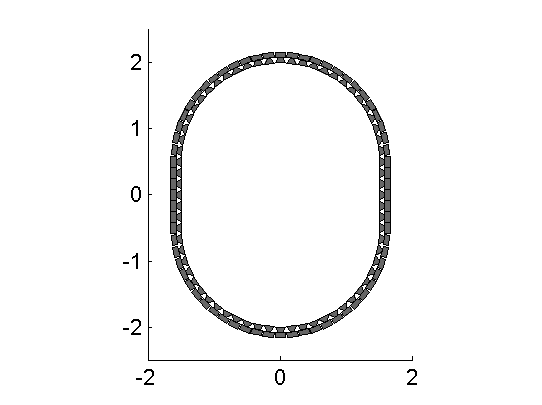
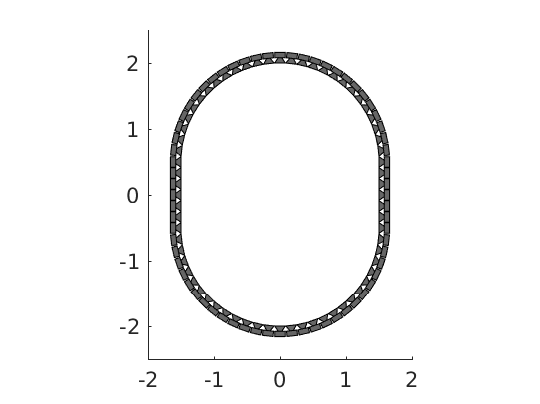
DOC: new section on system impulse responses and switch to opengl

diff --git a/doc/img/generate_plots.m b/doc/img/generate_plots.m
@@ -21,6 +21,7 @@ figure;
 figsize(540,404,'px');
 draw_loudspeakers(x0,conf);
 axis([-2 2 -2 2]);
+xticks(-2:1:2); yticks(-2:1:2);
 print_png('secondary_sources_circle.png');
 
 % === box shaped ===
@@ -31,6 +32,7 @@ figure;
 figsize(540,404,'px');
 draw_loudspeakers(x0,conf);
 axis([-2 2 -2 2]);
+xticks(-2:1:2); yticks(-2:1:2);
 print_png('secondary_sources_box.png');
 
 % === box shaped with smoothed edges ===
@@ -42,6 +44,7 @@ figure;
 figsize(540,404,'px');
 draw_loudspeakers(x0,conf);
 axis([-2 2 -2 2]);
+xticks(-2:1:2); yticks(-2:1:2);
 print_png('secondary_sources_rounded-box.png');
 
 % === spherical array ===
@@ -52,6 +55,7 @@ figure;
 figsize(540,404,'px');
 draw_loudspeakers(x0,conf);
 axis([-2 2 -2 2]);
+xticks(-2:1:2); yticks(-2:1:2);
 print_png('secondary_sources_sphere.png');
 
 % === arbitrary shaped arrays ===
@@ -93,12 +97,14 @@ figure;
 figsize(540,404,'px');
 draw_loudspeakers(x0,conf);
 axis([-2 2 -2.5 2.5]);
+xticks(-2:1:2); yticks(-2:1:2);
 print_png('secondary_sources_arbitrary.png');
 conf.plot.realloudspeakers = true;
 figure;
 figsize(540,404,'px');
 draw_loudspeakers(x0,conf);
 axis([-2 2 -2.5 2.5]);
+xticks(-2:1:2); yticks(-2:1:2);
 print_png('secondary_sources_arbitrary_realloudspeakers.png');
 
 %% ===== Monochromatic sound fields ======================================
@@ -110,10 +116,16 @@ conf.secondary_sources.number = 225;
 conf.secondary_sources.geometry = 'sphere';
 % [P,x,y,z,x0,win] = sound_field_mono_wfs_25d(X,Y,Z,xs,src,fconf);
 sound_field_mono_wfs([-2 2],[-2 2],0,[0 -1 0],'pw',800,conf);
+axis([-2 2 -2 2]);
+xticks(-2:1:2); yticks(-2:1:2);
 print_png('sound_field_wfs_3d_xy.png');
 sound_field_mono_wfs([-2 2],0,[-2 2],[0 -1 0],'pw',800,conf);
+axis([-2 2 -2 2]);
+xticks(-2:1:2); yticks(-2:1:2);
 print_png('sound_field_wfs_3d_xz.png');
 sound_field_mono_wfs(0,[-2 2],[-2 2],[0 -1 0],'pw',800,conf);
+axis([-2 2 -2 2]);
+xticks(-2:1:2); yticks(-2:1:2);
 print_png('sound_field_wfs_3d_yz.png');
 conf.resolution = 100;
 sound_field_mono_wfs([-2 2],[-2 2],[-2 2],[0 -1 0],'pw',800,conf);
@@ -127,6 +139,8 @@ conf.plot.useplot = true;
 conf.plot.normalisation = 'center';
 % [P,x,y,z,x0] = sound_field_mono_wfs(X,Y,Z,xs,src,f,conf);
 [P,~,~,~,x0] = sound_field_mono_wfs([-2 2],[-2 2],0,[0 2.5 0],'ps',800,conf);
+axis([-2 2 -2 2]);
+xticks(-2:1:2); yticks(-2:1:2);
 print_png('sound_field_wfs_25d.png');
 % plotting WFS with all secondary sources
 x0_all = secondary_source_positions(conf);
@@ -135,12 +149,16 @@ x0_all(:,7) = zeros(1,size(x0_all,1));
 x0_all(idx,7) = x0(:,7);
 conf.plot.realloudspeakers = true;
 plot_sound_field(P,[-2 2],[-2 2],0,x0_all,conf);
+axis([-2 2 -2 2]);
+xticks(-2:1:2); yticks(-2:1:2);
 print_png('sound_field_wfs_25d_with_all_sources.png');
 % simulating 2.5D NFCHOA with circular array and a plane wave
 conf = SFS_config;
 conf.dimension = '2.5D';
 % sound_field_mono_nfchoa(X,Y,Z,xs,src,f,conf);
 sound_field_mono_nfchoa([-2 2],[-2 2],0,[0 -1 0],'pw',800,conf);
+axis([-2 2 -2 2]);
+xticks(-2:1:2); yticks(-2:1:2);
 print_png('sound_field_nfchoa_25d.png');
 
 % === 2D local WFS with box shaped array and circular virtual array ===
@@ -172,9 +190,13 @@ conf.dimension = '2.5D';
 conf.plot.useplot = true;
 % sound_field_imp_nfchoa(X,Y,Z,xs,src,t,conf)
 [p,x,y,z,x0] = sound_field_imp_nfchoa([-2 2],[-2 2],0,[0 2 0],'ps',200,conf);
+axis([-2 2 -2 2]);
+xticks(-2:1:2); yticks(-2:1:2);
 print_png('sound_field_imp_nfchoa_25d.png');
 conf.plot.usedb = true;
 plot_sound_field(p,[-2 2],[-2 2],0,x0,conf);
+axis([-2 2 -2 2]);
+xticks(-2:1:2); yticks(-2:1:2);
 print_png('sound_field_imp_nfchoa_25d_dB.png');
 conf.plot.useplot = false;
 conf.t0 = 'source';
@@ -187,10 +209,12 @@ t_40cm = round(0.4/conf.c*conf.fs); % in samples
     sound_field_imp_wfs([-2 2],[-2 2],0,[0 -1 0 0 1 0],'fs',20,conf);
 plot_sound_field(p_ps+p_pw+p_fs,[-2 2],[-2 2],0,[x0_ps; x0_pw; x0_fs],conf)
 hold;
-scatter(0,0,'kx');   % origin of plane wave
-scatter(1.9,0,'ko'); % point source
-scatter(0,-1,'ko');  % focused source
+scatter(0,0,'k','x');   % origin of plane wave
+scatter(1.9,0,'k','o'); % point source
+scatter(0,-1,'k','o');  % focused source
 hold off;
+axis([-2 2 -2 2]);
+xticks(-2:1:2); yticks(-2:1:2);
 print_png('sound_field_imp_multiple_sources_dB.png');
 
 %% ===== custom grids ====================================================
@@ -210,10 +234,31 @@ conf.dimension = '2.5D';
 conf.secondary_sources.number = 64;
 conf.secondary_sources.geometry = 'circle';
 sound_field_imp_nfchoa(X,Y,0,[0 2 0],'ps',200,conf);
+axis([-2 2 -2 2]);
+xticks(-2:1:2); yticks(-2:1:2);
 print_png('sound_field_imp_nfchoa_25d_dB_custom_grid.png');
 
 
-%% ===== impulse response of the system ==================================
+%% ===== impulse response of a spatial audio system ======================
+conf = SFS_config;
+conf.t0 = 'source';
+X = [0 0 0];
+phi = 0;
+xs = [2.5 0 0];
+src = 'ps';
+hrtf = dummy_irs(conf);
+[ir,~,delay] = ir_wfs(X,phi,xs,src,hrtf,conf);
+figure;
+figsize(540,404,'px');
+plot(ir(1:1000,1),'-g');
+hold on;
+offset = round(delay*conf.fs);
+plot(ir(1+offset:1000+offset,1),'-b');
+hold off;
+print_png('impulse_response_wfs_25d.png');
+
+
+%% ===== frequency response of a spatial audio system ====================
 conf = SFS_config;
 conf.ir.usehcomp = 0;
 conf.wfs.usehpre = 0;
@@ -232,7 +277,7 @@ set(gca,'XTick',[10 100 250 1000 5000 20000]);
 legend('w/o pre-filter','w pre-filter');
 xlabel('frequency / Hz');
 ylabel('magnitude / dB');
-print_png('impulse_response_wfs_25d.png');
+print_png('frequency_response_wfs_25d.png');
 % alternative variant
 conf = SFS_config;
 [a,f] = freq_response_wfs([0 0 0],[0 2.5 0],'ps',conf);
@@ -244,5 +289,5 @@ set(gca,'XTick',[10 100 250 1000 5000 20000]);
 legend('w pre-filter');
 xlabel('frequency / Hz');
 ylabel('magnitude / dB');
-print_png('impulse_response_wfs_25d_mono.png');
+print_png('frequency_response_wfs_25d_mono.png');
 

diff --git a/SFS_plotting/print_png.m b/SFS_plotting/print_png.m
@@ -49,5 +49,7 @@ narginchk(nargmin,nargmax);
 %% ===== Main ============================================================
 % Font type
 set_font_type('Arial');
-print(outfile,'-dpng','-r150');
+pause(0.2);
+print('-r150','-opengl','-dpng',outfile);
+pause(0.2);
 close;

diff --git a/doc/binaural-simulations.rst b/doc/binaural-simulations.rst
@@ -137,6 +137,79 @@ reflections. Note, that the head orientation is chosen to be ``0``
 instead of ``pi/2`` as in the |HRTF| examples due to a difference in the
 orientation of the coordinate system of the |BRIR| measurement.
 
+Impulse response of your spatial audio system
+---------------------------------------------
+
+Binaural simulations are also an interesting approach to investigate the
+behavior of a given spatial audio system at different listener positions. Here, we
+are mainly interested in the influence of the system and not the |HRTF|\ s so we
+simply use a Dirac impulse as |HRTF| as provided by ``dummy_irs()``.
+
+.. sourcecode:: matlab
+
+    conf = SFS_config;
+    conf.t0 = 'source';
+    X = [0 0 0];
+    phi = 0;
+    xs = [2.5 0 0];
+    src = 'ps';
+    hrtf = dummy_irs(conf);
+    [ir,~,delay] = ir_wfs(X,phi,xs,src,hrtf,conf);
+    figure;
+    figsize(540,404,'px');
+    plot(ir(1:1000,1),'-g');
+    hold on;
+    offset = round(delay*conf.fs);
+    plot(ir(1+offset:1000+offset,1),'-b');
+    hold off;
+    %print_png('img/impulse_response_wfs_25d.png');
+
+.. figure:: img/impulse_response_wfs_25d.png
+   :align: center
+
+   Sound pressure of an impulse synthesized as a point source by 2.5D |WFS| at
+   (2.5, 0, 0) m. The sound pressure is observed by a virtual microphone at (0,
+   0, 0) m. The impulse is plotted including the delay offset of the WFS driving
+   function (green) and with a corrected delay that corresponds to the source
+   poisition (blue).
+
+The figure includes two versions of the impulse response at two different time
+instances. The green impulse response includes the processing delay that is
+added by `driving_function_imp_wfs()` and other functions performing filtering
+and delaying of signals. This delay is returned by `ir_wfs()` as well and can be
+used to correct it during plotting. The blue impulse response is the corrected
+one, which is now placed at 321 samples which corresponds to the actual distance
+of the synthesized source of 2.5 m.
+
+The impulse response can also be calculated without involving functions for
+binaural simulations, but by utilizing directly `sound_field_imp()` related
+function.
+
+.. sourcecode:: matlab
+
+    conf = SFS_config;
+	conf.N = 1000;
+    conf.t0 = 'source';
+    X = [0 0 0];
+    phi = 0;
+    xs = [2.5 0 0];
+    src = 'ps';
+	time_response_wfs(X,xs,src,conf)
+    %print_png('img/impulse_response_wfs_25d_imp.png');
+
+.. figure:: img/impulse_response_wfs_25d.png
+   :align: center
+
+   Sound pressure of an impulse synthesized as a point source by 2.5D
+   |WFS| at (2.5, 0, 0) m. The sound pressure is observed by a virtual
+   microphone at (0, 0, 0) m.
+
+This time the delay offset of the driving function is automatically corrected
+for and the involved calculation uses inherently a fractional delay filter. The
+downside is that the calculation takes longer and the amplitude is slightly
+lower by the involved fractional delay method.
+
+
 Frequency response of your spatial audio system
 -----------------------------------------------
 
@@ -168,9 +241,9 @@ the figure).
     legend('w/o pre-filter','w pre-filter');
     xlabel('frequency / Hz');
     ylabel('magnitude / dB');
-    %print_png('img/impulse_response_wfs_25d.png');
+    %print_png('img/frequency_response_wfs_25d.png');
 
-.. figure:: img/impulse_response_wfs_25d.png
+.. figure:: img/frequency_response_wfs_25d.png
    :align: center
 
    Sound pressure in decibel of a point source synthesized by 2.5D |WFS| for
@@ -185,9 +258,9 @@ the whole frequency range will be affected.
 
     freq_response_wfs([0 0 0],[0 2.5 0],'ps',conf);
     axis([10 20000 -40 0]);
-    %print_png('img/impulse_response_wfs_25d_mono.png');
+    %print_png('img/frequency_response_wfs_25d_mono.png');
 
-.. figure:: img/impulse_response_wfs_25d_mono.png
+.. figure:: img/frequency_response_wfs_25d_mono.png
    :align: center
 
    Sound pressure in decibel of a point source synthesized by 2.5D |WFS| for
